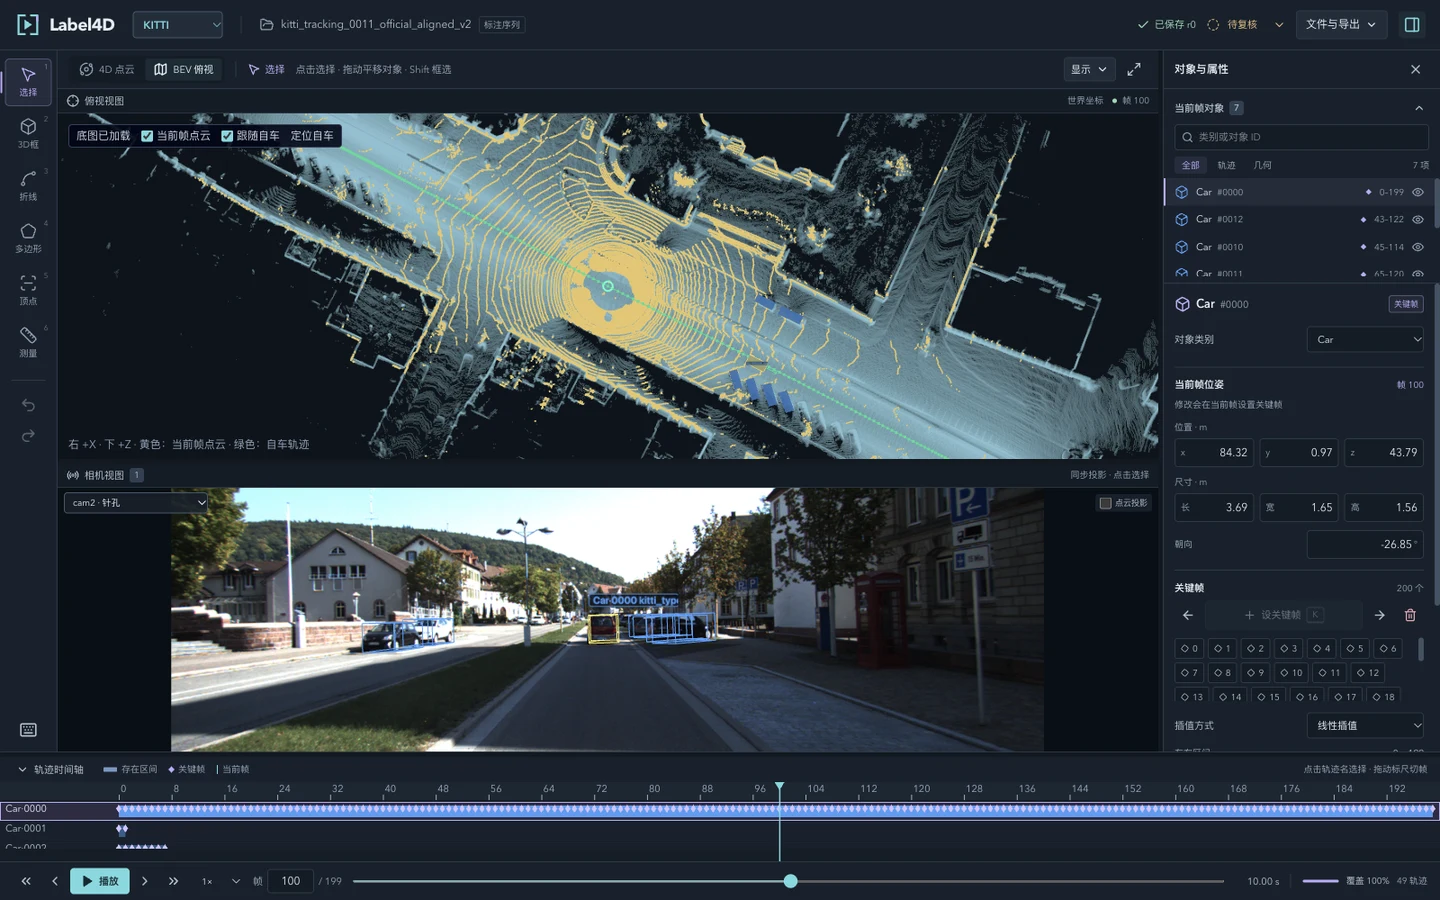
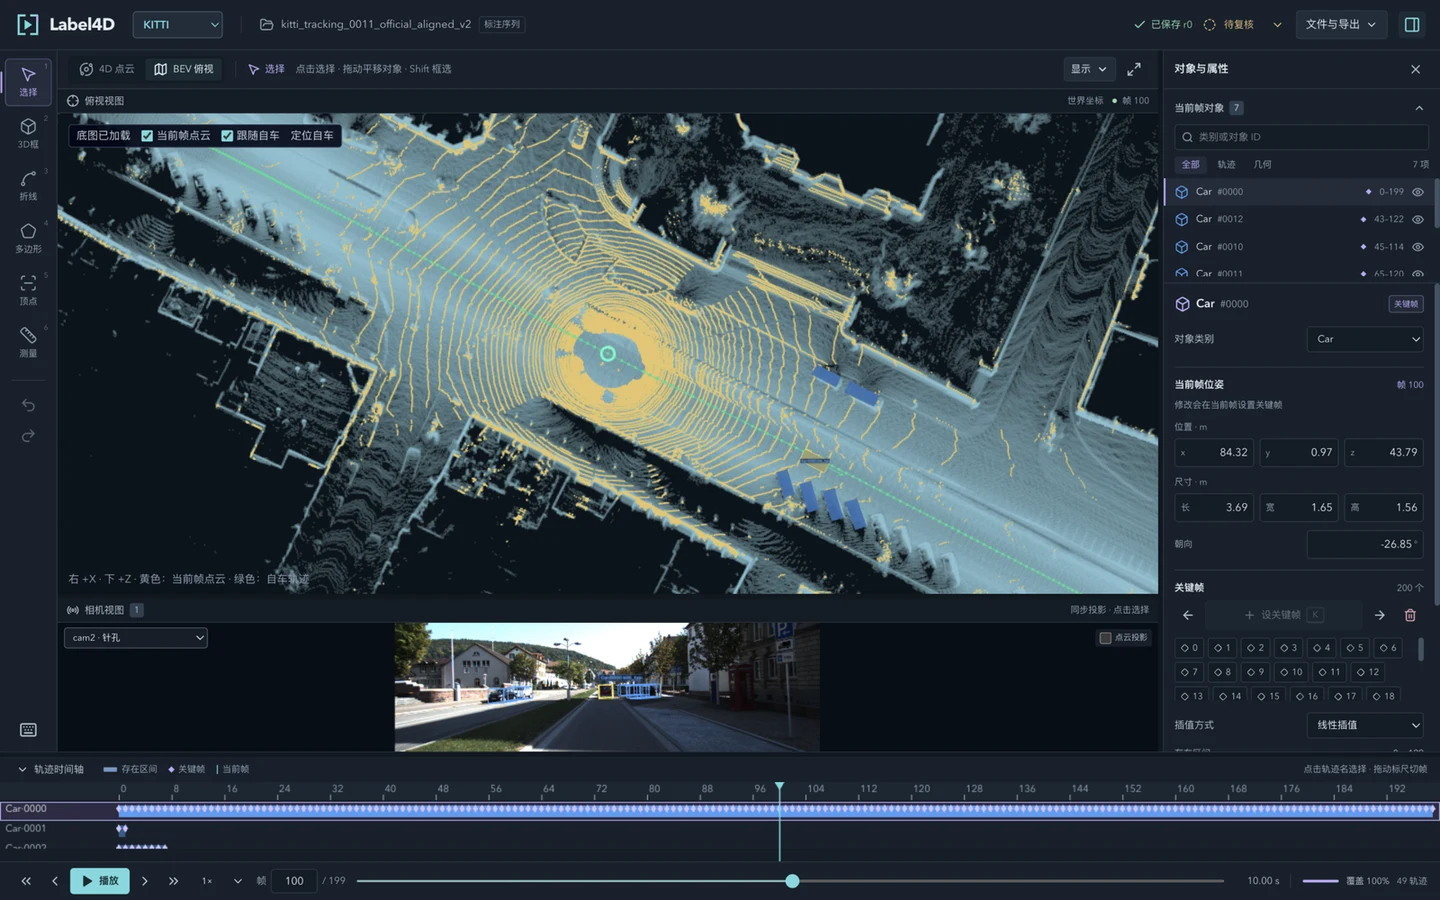
docs: reframe the README screenshots on the editor's own camera
The earlier captures used the default camera distance, which shows the scene
from far away and hides the two things that make the editor readable: the
accumulated lidar sweep rings of the static map and the ego trajectory. Move
the camera in, give the camera region more height and keep every panel in
frame, so the screenshot shows what the tool actually does.

diff --git a/README.md b/README.md
@@ -9,7 +9,7 @@ Label4D combines a React/Three.js editor, a TypeScript annotation engine, and Py
 
 ![Label4D workspace: 3D point cloud with the ego trajectory, orthographic top/front/side views, the camera view with projected boxes, the object list and pose properties, and the trajectory timeline](docs/images/workspace.webp)
 
-*One workspace: current-frame point cloud, orthographic views, the camera view with projected boxes, object attributes and the trajectory timeline. Official KITTI tracking 0011 preview data.*
+*One workspace: the accumulated lidar sweep rings and the ego trajectory in 3D, the orthographic top/front/side views, the camera view with projected boxes, the object attributes and the trajectory timeline. Official KITTI tracking 0011 preview data.*
 
 ## What works today
 
